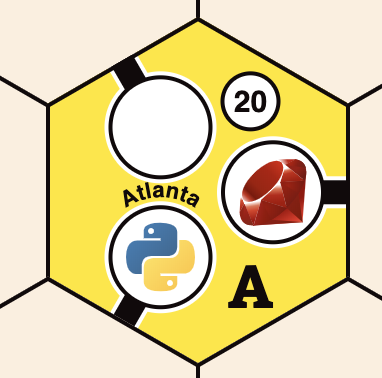
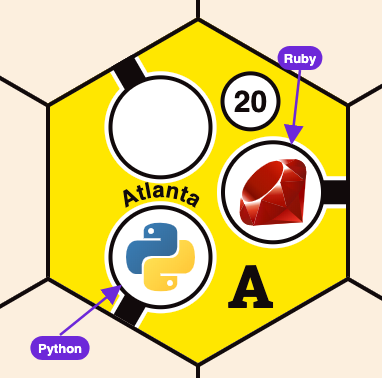
docs: caption, annotate and describe doc screenshots (#763)
## What changed

- Markdown images with a title now render as figures: rounded border
plus a caption. Alt text is now the real alt, no longer the title.
Images without a title (home page logo) render as before.
- Every docs screenshot has a caption and descriptive alt text.
- Annotated callouts on the export toolbar, borders, tokens and
Ruby/Python override images.
- `print-button.png` was unreferenced and showed the old UI; it is
replaced by a fresh web toolbar capture and used in the web-browser
notes on the PNG and PDF pages.

## Behavior changes for release notes

- Docs pages show captioned, bordered screenshots.

## Not verified

- `export-button.png` is the Electron toolbar; the original capture was
kept and only annotated, so it was not re-checked against the running
app.
- Playwright e2e and the Electron export suites were not run; other OSes
and the packaged app were not checked.
- Unit and component tests, lint and prettier pass locally.

diff --git a/src/components/Markdown.jsx b/src/components/Markdown.jsx
@@ -17,28 +17,60 @@ import rehypeHeadingIds from "@/util/headingIds";
 
 const clean = dissoc("node");
 
-const ElectronImage = (props) => {
-  // Images sit inline and left aligned (Tailwind would make them blocks). A
-  // page can float them with its own className (see Home).
-  const className = "inline max-w-full";
-  if (capability.electron) {
-    return (
-      <img
-        alt={props.title || props.src}
-        {...clean(props)}
-        src={`.${props.src}`}
-        className={className}
-      />
-    );
-  }
-
-  return (
+// Images sit inline and left aligned (Tailwind would make them blocks). A page
+// can float them with its own className (see Home). An image with a title
+// becomes a figure: the title is its caption and the alt text stays the alt.
+// A screenshot of the UI named `<name>-light.png` has a `<name>-dark.png`
+// twin, and the one matching the current theme is shown.
+const DocImage = (props) => {
+  const { title, alt, src, ...rest } = clean(props);
+  const path = (file) => (capability.electron ? `.${file}` : file);
+  const image = (file, extra) => (
     <img
-      className={className}
-      alt={props.title || props.src}
-      {...clean(props)}
+      alt={alt}
+      {...rest}
+      src={path(file)}
+      className={cn(
+        "max-w-full",
+        title ? "rounded-lg border bg-white" : "inline",
+        extra,
+      )}
     />
   );
+  const themed = src.endsWith("-light.png");
+  const img = themed ? (
+    <>
+      {image(src, "dark:hidden")}
+      {image(src.replace(/-light\.png$/, "-dark.png"), "hidden dark:inline")}
+    </>
+  ) : (
+    image(src)
+  );
+
+  if (!title) return img;
+
+  return (
+    <figure className="m-0 inline-block max-w-full align-top">
+      {img}
+      <figcaption className="mt-2 max-w-prose text-sm text-muted-foreground">
+        {title}
+      </figcaption>
+    </figure>
+  );
+};
+
+// A figure is not allowed inside a paragraph
+const Paragraph = ({ node, ...props }) => {
+  const figure = node?.children?.some(
+    (child) => child.tagName === "img" && child.properties?.title,
+  );
+  return createElement(figure ? "div" : "p", {
+    ...clean(props),
+    className: clsx(
+      "leading-7 not-first:mt-6",
+      figure && "flex flex-wrap items-start gap-4",
+    ),
+  });
 };
 
 const LocalLink = (props) => {
@@ -115,10 +147,10 @@ const components = {
     "scroll-m-20 text-md font-semibold tracking-tight not-first:mt-6",
   ),
   div: md("div", "leading-7 not-first:mt-6"),
-  p: md("p", "leading-7 not-first:mt-6"),
+  p: Paragraph,
   ul: md("ul", "my-6 ml-6 list-disc [&>li]:mt-2"),
   a: LocalLink,
-  img: ElectronImage,
+  img: DocImage,
   table: md("table", "w-full"),
   tr: md("tr", "m-0 border-t p-0 even:bg-muted"),
   th: md(

diff --git a/tests/markdown.images.test.jsx b/tests/markdown.images.test.jsx
@@ -3,13 +3,33 @@ import { screen } from "@testing-library/react";
 import { renderApp } from "@tests/helpers.jsx";
 
 describe("markdown images", () => {
-  it("are not floated on doc pages", async () => {
+  it("are captioned figures with rounded borders on doc pages", async () => {
     renderApp("/docs/games/logos");
-    const image = await screen.findByRole("img", { name: "none" });
+    const image = await screen.findByRole("img", {
+      name: /purple company token/,
+    });
 
     expect(image).not.toHaveClass("float-right");
-    // Tailwind makes images blocks, which would put each on its own line
-    expect(image).toHaveClass("inline");
+    expect(image).toHaveClass("rounded-lg", "border");
+    expect(image).not.toHaveAttribute("title");
+    const figure = screen.getAllByRole("figure")[0];
+    expect(figure).toContainElement(image);
+    expect(figure).toHaveTextContent("none");
+    // A figure can't sit in a paragraph
+    // eslint-disable-next-line testing-library/no-node-access
+    expect(image.closest("p")).toBeNull();
+  });
+
+  it("swap UI screenshots with their dark twin by theme", async () => {
+    renderApp("/docs/output/png");
+    const pair = await screen.findAllByRole("img", { name: /export button/i });
+
+    expect(pair).toHaveLength(2);
+    expect(pair[0]).toHaveAttribute("src", "/images/export-button-light.png");
+    expect(pair[0]).toHaveClass("dark:hidden");
+    expect(pair[1]).toHaveAttribute("src", "/images/export-button-dark.png");
+    expect(pair[1]).toHaveClass("hidden", "dark:inline");
+    expect(pair[1]).toHaveAttribute("alt", pair[0].getAttribute("alt"));
   });
 
   it("are floated right on the home page", async () => {

diff --git a/tests/coverage.electron.test.jsx b/tests/coverage.electron.test.jsx
@@ -304,8 +304,8 @@ describe("electron docs", () => {
     renderApp("/docs/output/png");
 
     expect(
-      await screen.findByRole("img", { name: "export button" }),
-    ).toHaveAttribute("src", "./images/export-button.png");
+      (await screen.findAllByRole("img", { name: /export button/i }))[0],
+    ).toHaveAttribute("src", "./images/export-button-light.png");
   });
 });
 

diff --git a/tests/coverage.chrome.test.jsx b/tests/coverage.chrome.test.jsx
@@ -435,7 +435,7 @@ describe("markdown", () => {
     renderApp("/docs/output/png");
 
     expect(
-      await screen.findByRole("img", { name: "export button" }),
-    ).toHaveAttribute("src", "/images/export-button.png");
+      (await screen.findAllByRole("img", { name: /export button/i }))[0],
+    ).toHaveAttribute("src", "/images/export-button-light.png");
   });
 });

diff --git a/CLAUDE.md b/CLAUDE.md
@@ -154,6 +154,22 @@ sizing or packaging logic in either surface.
   `sendFile` 404s on absolute paths containing one (worktrees live in
   `.claude/worktrees`), so use `root` as `startExpress` does.
 
+## Docs screenshots
+
+Images in `src/docs` live in `public/images`.
+
+- Every image has descriptive alt text and a caption: `![alt](/images/x.png "caption")`.
+  A titled image renders as a rounded, bordered figure (`DocImage` in
+  `src/components/Markdown.jsx`); never put the caption in the alt text.
+- Annotate where it clarifies (circle the control, label parts with arrows,
+  one label per thing, nothing overlapping). Crop to whole objects, never cut
+  tokens or hexes at the edge.
+- UI screenshots come in a theme pair, `<name>-light.png` and
+  `<name>-dark.png`; reference the `-light.png` and the renderer swaps by
+  theme. Capture them from the real app (Playwright, 2x) and keep the app's own
+  transparent-square background across the whole image, including under the
+  labels; do not pad with a flat color.
+
 ## Commit messages
 
 release-please builds releases and the changelog from commit subjects, so every

diff --git a/src/docs/output/pdf.en.md b/src/docs/output/pdf.en.md
@@ -5,12 +5,14 @@
 On the 18xx Maker application you can browse to any game component and then
 click on the export button:
 
-![The export button in the toolbar](/images/export-button.png)
+![Toolbar of a game page with the export button circled](/images/export-button-light.png "The export button in the app's toolbar.")
 
 > [!NOTE]
 > If you are using 18xx Maker in a web browser please note that this button
 > doesn't exist and instead shows a print icon. It only opens your browser's
 > print menu.
+
+![Toolbar of a game page in a web browser with the print button circled](/images/print-button-light.png "In a web browser the same spot shows the print button.")
 
 This will expose a menu with export options: export the full game as PDF
 documents, as PNG images or as a Board18 box. Exporting this way

diff --git a/src/docs/output/png.en.md b/src/docs/output/png.en.md
@@ -3,12 +3,14 @@
 On the 18xx Maker application you can browse to any game component and then
 click on the export button:
 
-![export button](/images/export-button.png)
+![Toolbar of a game page with the export button circled](/images/export-button-light.png "The export button in the app's toolbar.")
 
 > [!NOTE]
 > If you are using 18xx Maker in a web browser please note that this button
 > doesn't exist and instead shows a print icon. It only opens your browser's
 > print menu.
+
+![Toolbar of a game page in a web browser with the print button circled](/images/print-button-light.png "In a web browser the same spot shows the print button.")
 
 This will expose a menu with export options: export the full game as PDF
 documents, as PNG images or as a Board18 box. Exporting this way

diff --git a/src/docs/games/logos.en.md b/src/docs/games/logos.en.md
@@ -22,10 +22,10 @@ page:
 
 Here are some examples, `none`, `original`, `match`, and finally `main`:
 
-![none](/images/company-none.png)
-![original](/images/company-original.png)
-![match](/images/company-match.png)
-![main](/images/company-main.png)
+![A purple company token with the text KO on it](/images/company-none.png "none")
+![The company logo on a white circle](/images/company-original.png "original")
+![The company logo recolored with the theme colors](/images/company-match.png "match")
+![The company logo recolored with the theme colors and the company color](/images/company-main.png "main")
 
 ## Creating the SVG files
 

diff --git a/src/docs/index.en.md b/src/docs/index.en.md
@@ -44,7 +44,7 @@ When using the [app](https://github.com/18xx-maker/18xx-maker/releases) there is
 a button in the toolbar at the top left of every game page (the one next to the
 Paginate switch):
 
-![The toolbar of a game page with the export button](/images/export-button.png)
+![Toolbar of a game page with the back, config, page, export and paginate controls labeled](/images/export-button-light.png "The toolbar at the top left of every game page in the app. The export button is circled.")
 
 Its menu has these entries:
 

diff --git a/src/docs/games/overrides.en.md b/src/docs/games/overrides.en.md
@@ -30,4 +30,4 @@ validate.
 Here is an example of the 1832 Atlanda map hex with the Ruby and Python
 overrides from the languages list:
 
-![ruby and python in Atlanta](/images/ruby-and-python-in-atlanta.png)
+![The Atlanta hex of 1832 with a Ruby logo on one city and a Python logo on the other](/images/ruby-and-python-in-atlanta.png "Atlanta in 1832 with the Ruby and Python overrides.")

diff --git a/src/docs/games/borders.en.md b/src/docs/games/borders.en.md
@@ -27,7 +27,7 @@ mixed in a single border:
 
 Here are two of the rivers from the 1867 map (the full map has more):
 
-![Borders drawn on a map](/images/borders-example.png)
+![Two blue river borders drawn along the edges of beige map hexes](/images/borders-example.png "Borders follow hex edges and corners instead of belonging to a single hex.")
 
 ```json
 {

diff --git a/src/docs/pnp/tokens.en.md b/src/docs/pnp/tokens.en.md
@@ -70,7 +70,7 @@ sheet. This is expected behavior.
 }
 ```
 
-![Tokens laid out on a sheet](/images/tokens-example.png)
+![Sheet of round company tokens: large market tokens with their reverse sides, and smaller station tokens](/images/tokens-example.png "Each company gets a market token, its reverse side and station tokens.")
 
 ## PnP Advice
 
